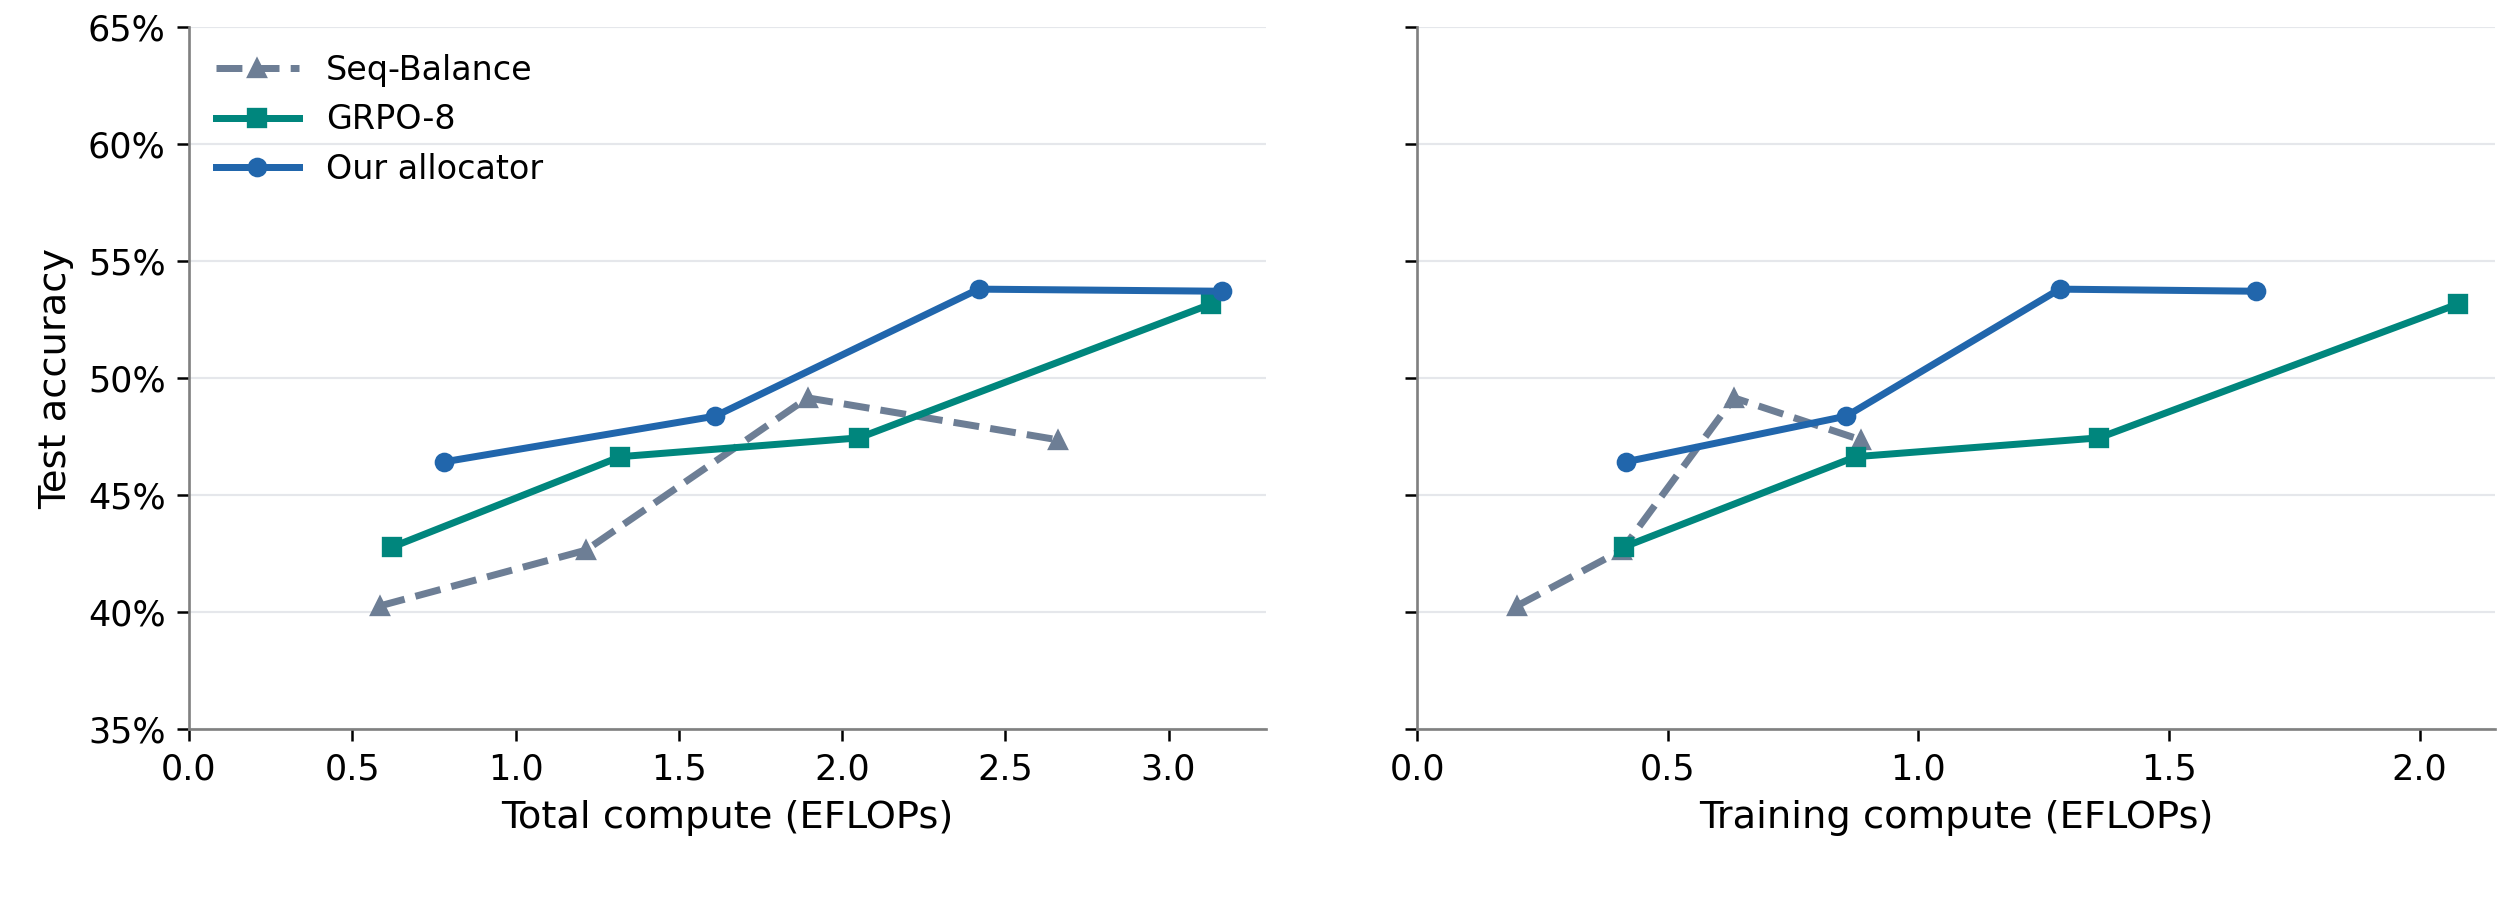
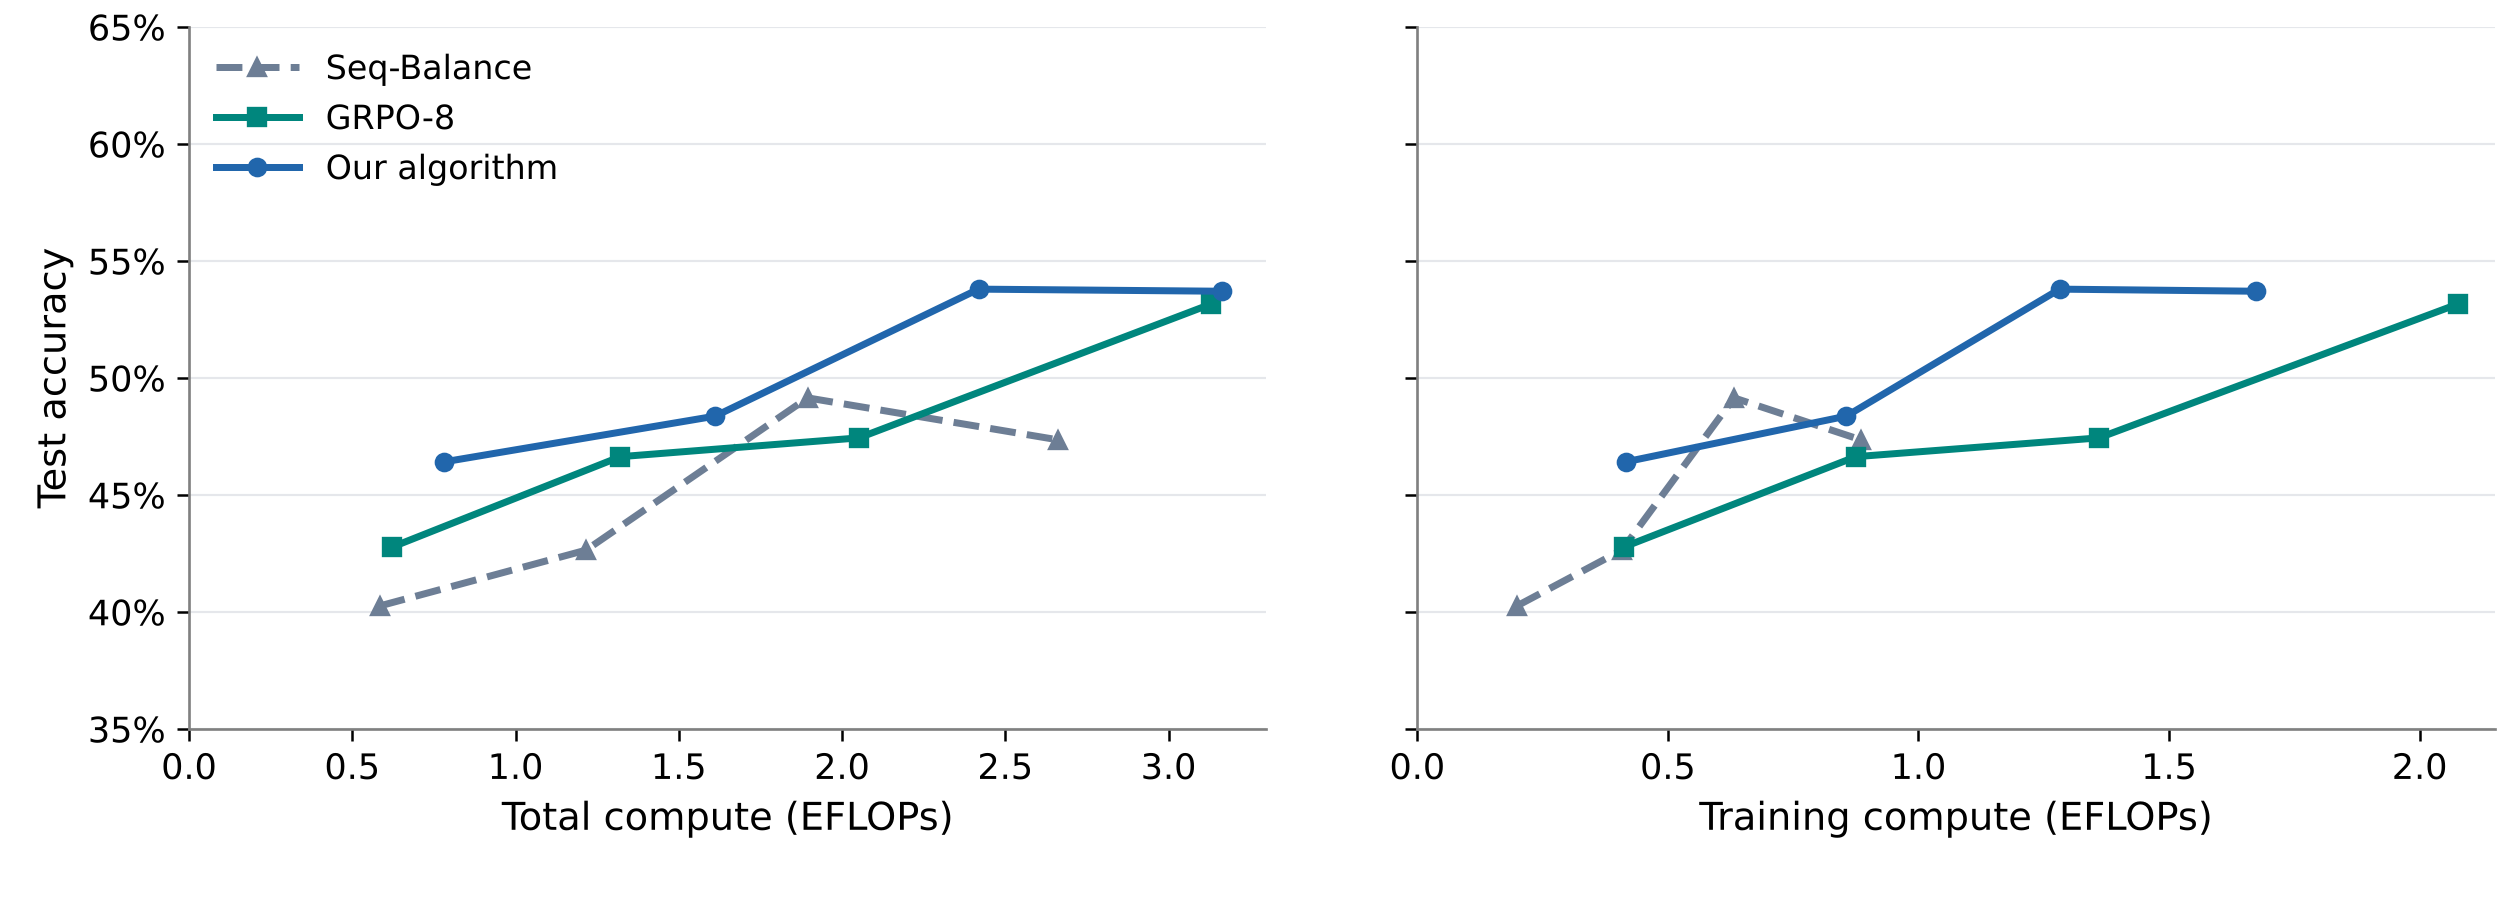
Add three-panel training figure and tighten TL;DR
- TL;DR bullet 3: solver first, then the rare-outcome intuition
- Train accuracy against optimizer updates, total compute and training
  compute in one figure (stacked on phones), shown below the TL;DR and
  in Section 4.2; caption details moved into the text
- Held-out figure relabeled "Our algorithm"

Claude-Session: https://claude.ai/code/session_01GcYSqcFcXdXHCVoqz6H71Z

diff --git a/assets/css/publication.css b/assets/css/publication.css
@@ -325,3 +325,8 @@ table.paper-table.wrap td:not(:first-child) { min-width: 120px; }
   .schematic mjx-container[display="true"] { font-size: 72% !important; }
   .notice--info mjx-container[display="true"] { font-size: 66% !important; }
 }
+
+/* Three-panel training figure: on phones a stacked image replaces the row; let it keep its height. */
+@media (max-width: 600px) {
+  .post-body figure.three-views img { max-height: none; }
+}

diff --git a/index.md b/index.md
@@ -25,12 +25,21 @@ We investigate adaptive sampling in RL with verifiable rewards.
    \end{aligned}
    $$
 
-   Of course, how many successes and failures we get depends on how the extra rollouts come out, so the plan covers every possible outcome, and we count tokens in expectation.
-3. We solve it exactly, with a small mixed-integer program. The accuracy gradient points from the average failure to the average success, so we need both, and the rarer outcome is the bottleneck. The optimal plan is **Neyman allocation over (prompt, outcome) pairs**: each prompt aims for about as many successes as failures, whatever their lengths, and buys more rollouts only while the outcome it is short of is worth the price. We also prove that the resulting update always points along the accuracy gradient.
+   Of course, the numbers of successes and failures at our disposal after sampling vary from run to run, so our algorithm also adapts to all possible scenarios.
+3. We solve the optimization problem exactly with an integer program solver. Intuitively, the update compares the average success with the average failure, so its noise is set mostly by whichever outcome we have fewer of. With 1 success and 7 failures, one more success cuts the noise by almost half, while one more failure cuts it by under 2%. So the solver spends compute on the rarer outcome. We also prove that the resulting update always points along the accuracy gradient.
 4. We empirically check the noise model behind this on competition-math rollouts from Qwen3-4B.
 5. On a frozen Qwen3-8B checkpoint, our algorithm's gradient has **17% less variance than GRPO-8's at equal compute**.
 6. In training on competition math, our algorithm is **6.4 points ahead of GRPO-8 in held-out accuracy at equal training compute**, and matches it at equal total compute (53.7% vs 53.2%).
 </div>
+
+Here is what this looks like in practice. We train Qwen3-8B on competition math and track accuracy on the training prompts, counting progress three ways: optimizer updates, total compute and training compute. Our algorithm ends highest in all three ([Section 4.2](#training)).
+
+<figure class="three-views">
+  <a class="figure-link" target="_blank" rel="noopener" href="{{ '/assets/images/train-accuracy-three-views.png' | relative_url }}"><picture>
+    <source media="(max-width: 600px)" srcset="{{ '/assets/images/train-accuracy-three-views-stacked.png' | relative_url }}">
+    <img src="{{ '/assets/images/train-accuracy-three-views.png' | relative_url }}" alt="Accuracy on the training prompts for Seq-Balance, GRPO-8 and our algorithm, against optimizer updates, total compute and training compute. Our algorithm ends highest in all three panels.">
+  </picture></a>
+</figure>
 
 ## 1. Background: adaptive sampling for LLM RLVR {#background}
 
@@ -408,12 +417,16 @@ are unbiased for $$\operatorname{tr}\operatorname{Cov}(g)$$ and $$\lVert G\rVert
 </table>
 </div>
 
-Train accuracy is the right end of the curves in the figure below: answers sampled before each update, over the last 20M weighted tokens of total compute. At equal total compute, our algorithm and GRPO-8 end level on the held-out prompts, 53.7% against 53.2%, a difference of 0.5 points [−3.8, +4.9], while on the training prompts our algorithm is 2.6 points ahead. At equal training compute, our algorithm is ahead on the held-out prompts too. After 75 updates it has used 1.28 EFLOPs of training compute and reaches 53.8%, while GRPO-8 after 75 updates has used 1.36 EFLOPs and reaches 47.4%, a gap of 6.4 points [2.0, 11.0]. Brackets are 95% paired bootstrap intervals over the 60 held-out prompts. Seq-Balance ends at 47.4% on the held-out prompts, with 16% less total compute. On the training prompts, our algorithm pulls ahead after about 1.5 EFLOPs of total compute:
+Train accuracy is the right end of the middle panel in the figure below. At equal total compute, our algorithm and GRPO-8 end level on the held-out prompts, 53.7% against 53.2%, a difference of 0.5 points [−3.8, +4.9], while on the training prompts our algorithm is 2.6 points ahead. At equal training compute, our algorithm is ahead on the held-out prompts too. After 75 updates it has used 1.28 EFLOPs of training compute and reaches 53.8%, while GRPO-8 after 75 updates has used 1.36 EFLOPs and reaches 47.4%, a gap of 6.4 points [2.0, 11.0]. Brackets are 95% paired bootstrap intervals over the 60 held-out prompts. Seq-Balance ends at 47.4% on the held-out prompts, with 16% less total compute. On the training prompts, our algorithm is ahead of both baselines from about the 20th update on, pulls ahead in total compute after about 1.5 EFLOPs, and leads GRPO-8 for most of the run in training compute:
 
-<figure>
-  <a class="figure-link" target="_blank" rel="noopener" href="{{ '/assets/images/train-accuracy-vs-compute.png' | relative_url }}"><img src="{{ '/assets/images/train-accuracy-vs-compute.png' | relative_url }}" alt="Accuracy on the training prompts against total compute and against training compute for Seq-Balance, GRPO-8 and our algorithm. Our algorithm pulls ahead of both after about 1.5 EFLOPs of total compute." loading="lazy"></a>
-  <figcaption>Accuracy on the training prompts, from answers sampled before each update (the first four per prompt for our algorithm and Seq-Balance, all eight for GRPO-8), pooled over a trailing window of 20M weighted tokens of total compute (left) or 8M of training compute (right).</figcaption>
+<figure class="three-views">
+  <a class="figure-link" target="_blank" rel="noopener" href="{{ '/assets/images/train-accuracy-three-views.png' | relative_url }}"><picture>
+    <source media="(max-width: 600px)" srcset="{{ '/assets/images/train-accuracy-three-views-stacked.png' | relative_url }}">
+    <img src="{{ '/assets/images/train-accuracy-three-views.png' | relative_url }}" alt="Accuracy on the training prompts for Seq-Balance, GRPO-8 and our algorithm, against optimizer updates, total compute and training compute. Our algorithm ends highest in all three panels." loading="lazy">
+  </picture></a>
 </figure>
+
+Each curve is the accuracy of answers sampled before each update, pooled over a trailing window: the last 10 updates on the left, the last 20M weighted tokens of total compute in the middle, and the last 8M of training compute on the right. The left panel counts the first four answers per prompt for every method; the other two count the first four for our algorithm and Seq-Balance and all eight for GRPO-8.
 
 These are single training runs, and the intervals cover only the choice of held-out prompts, not the training seed.
 
